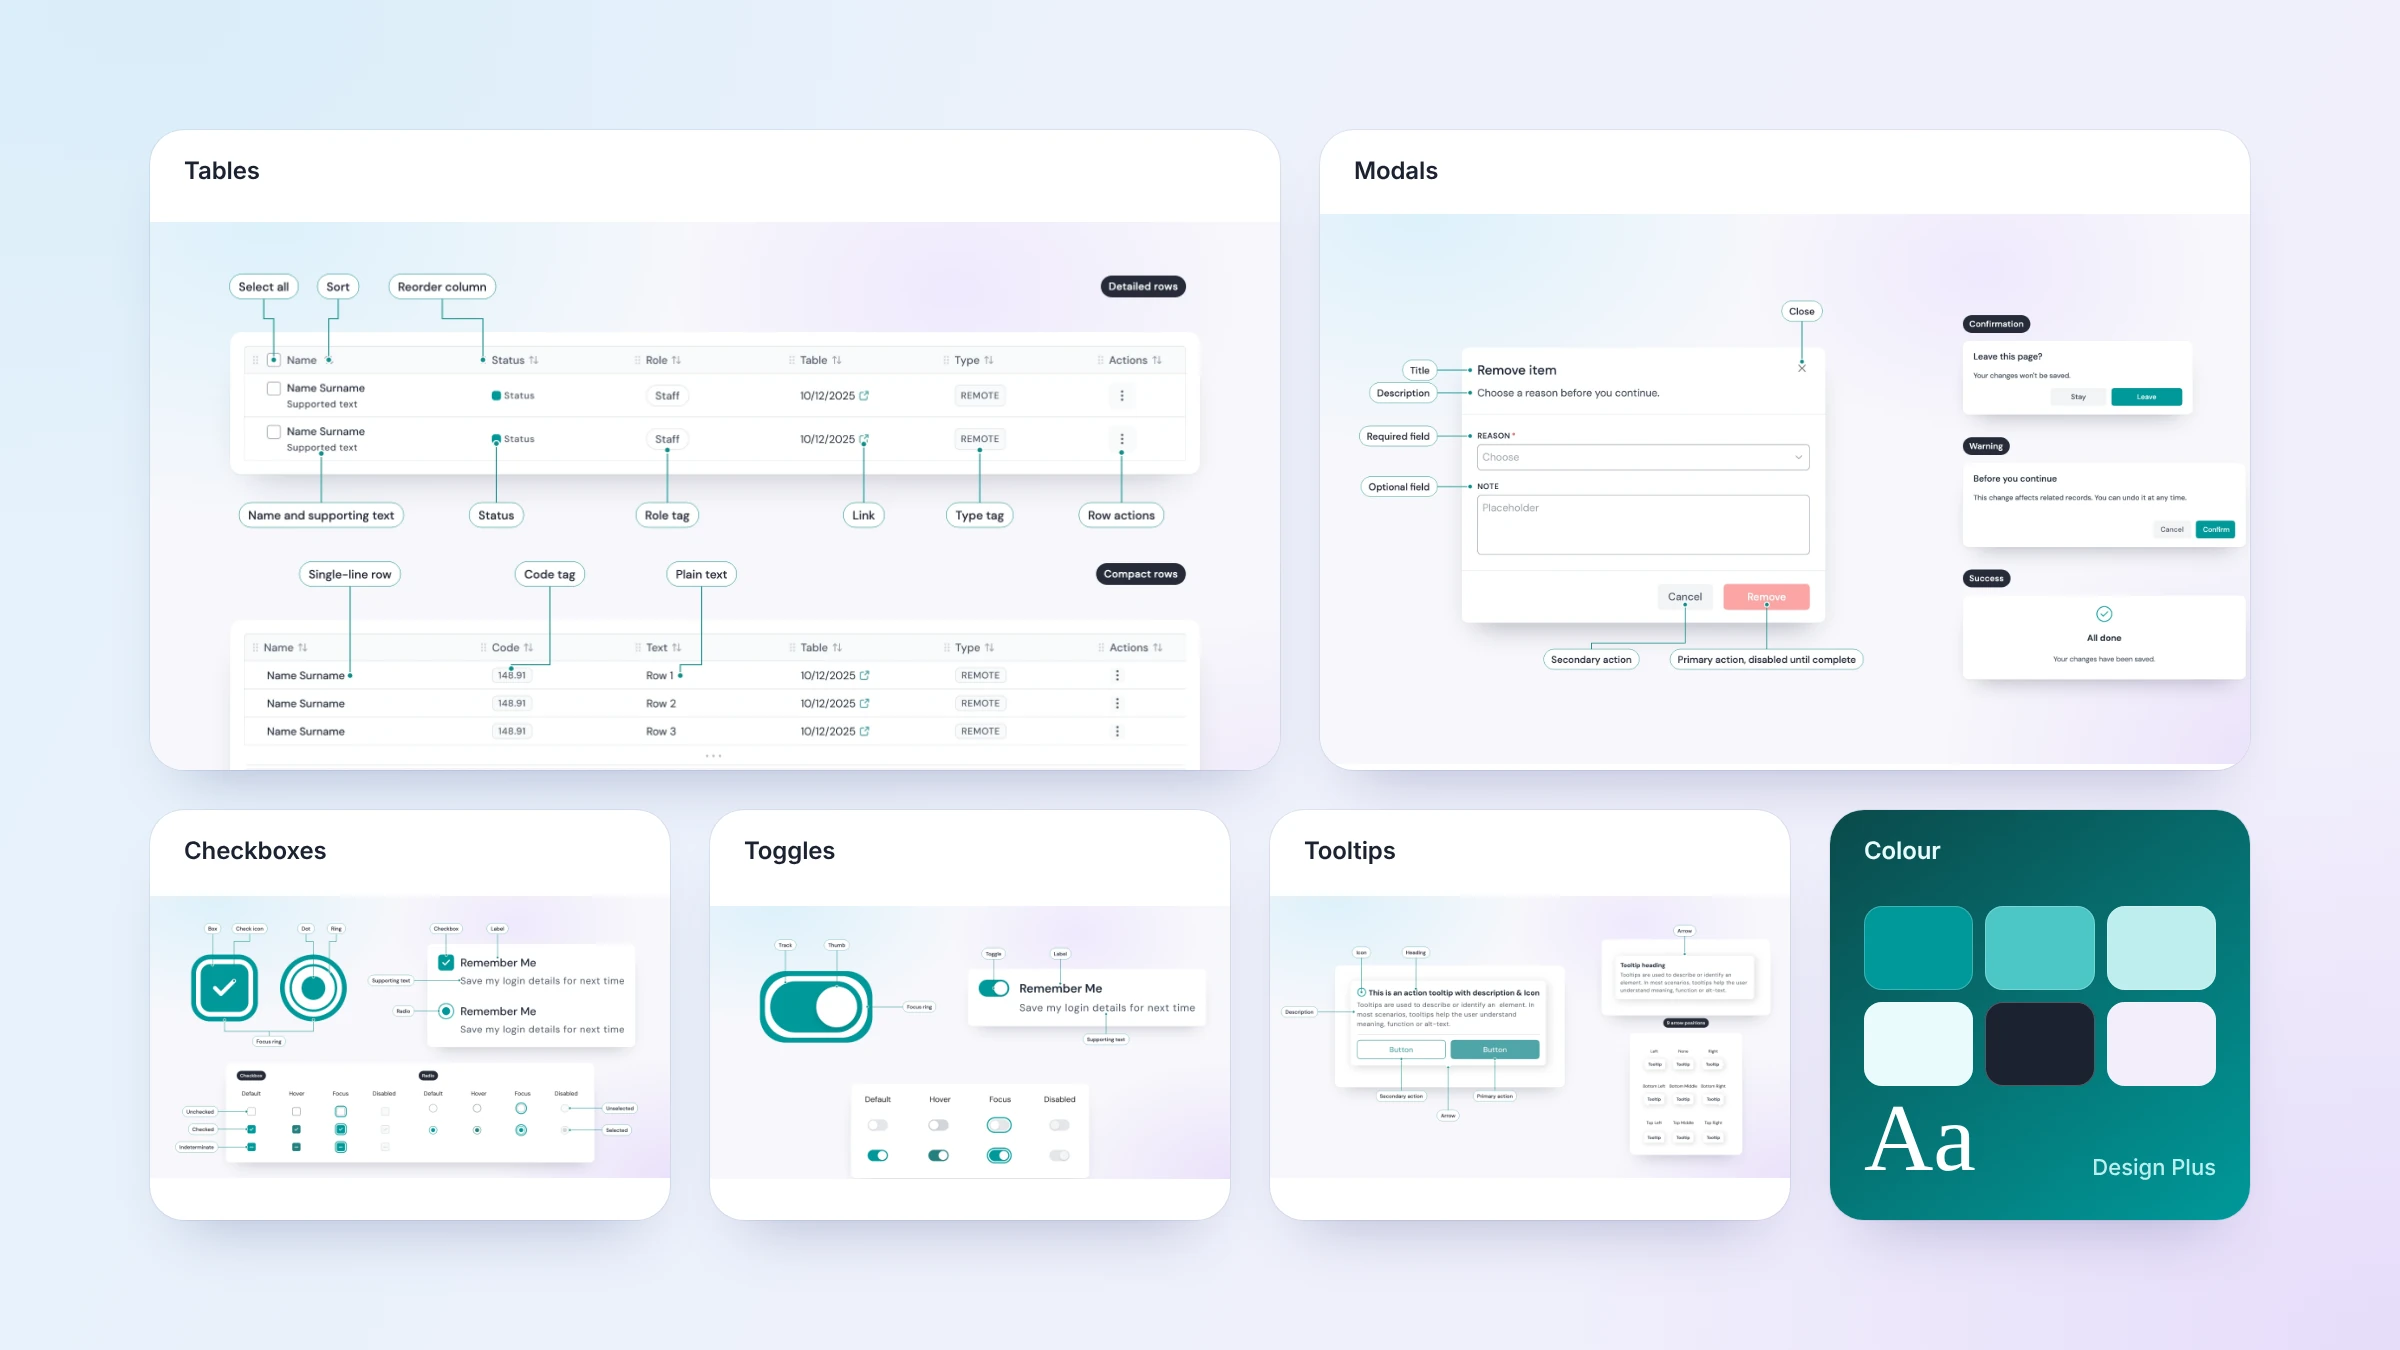
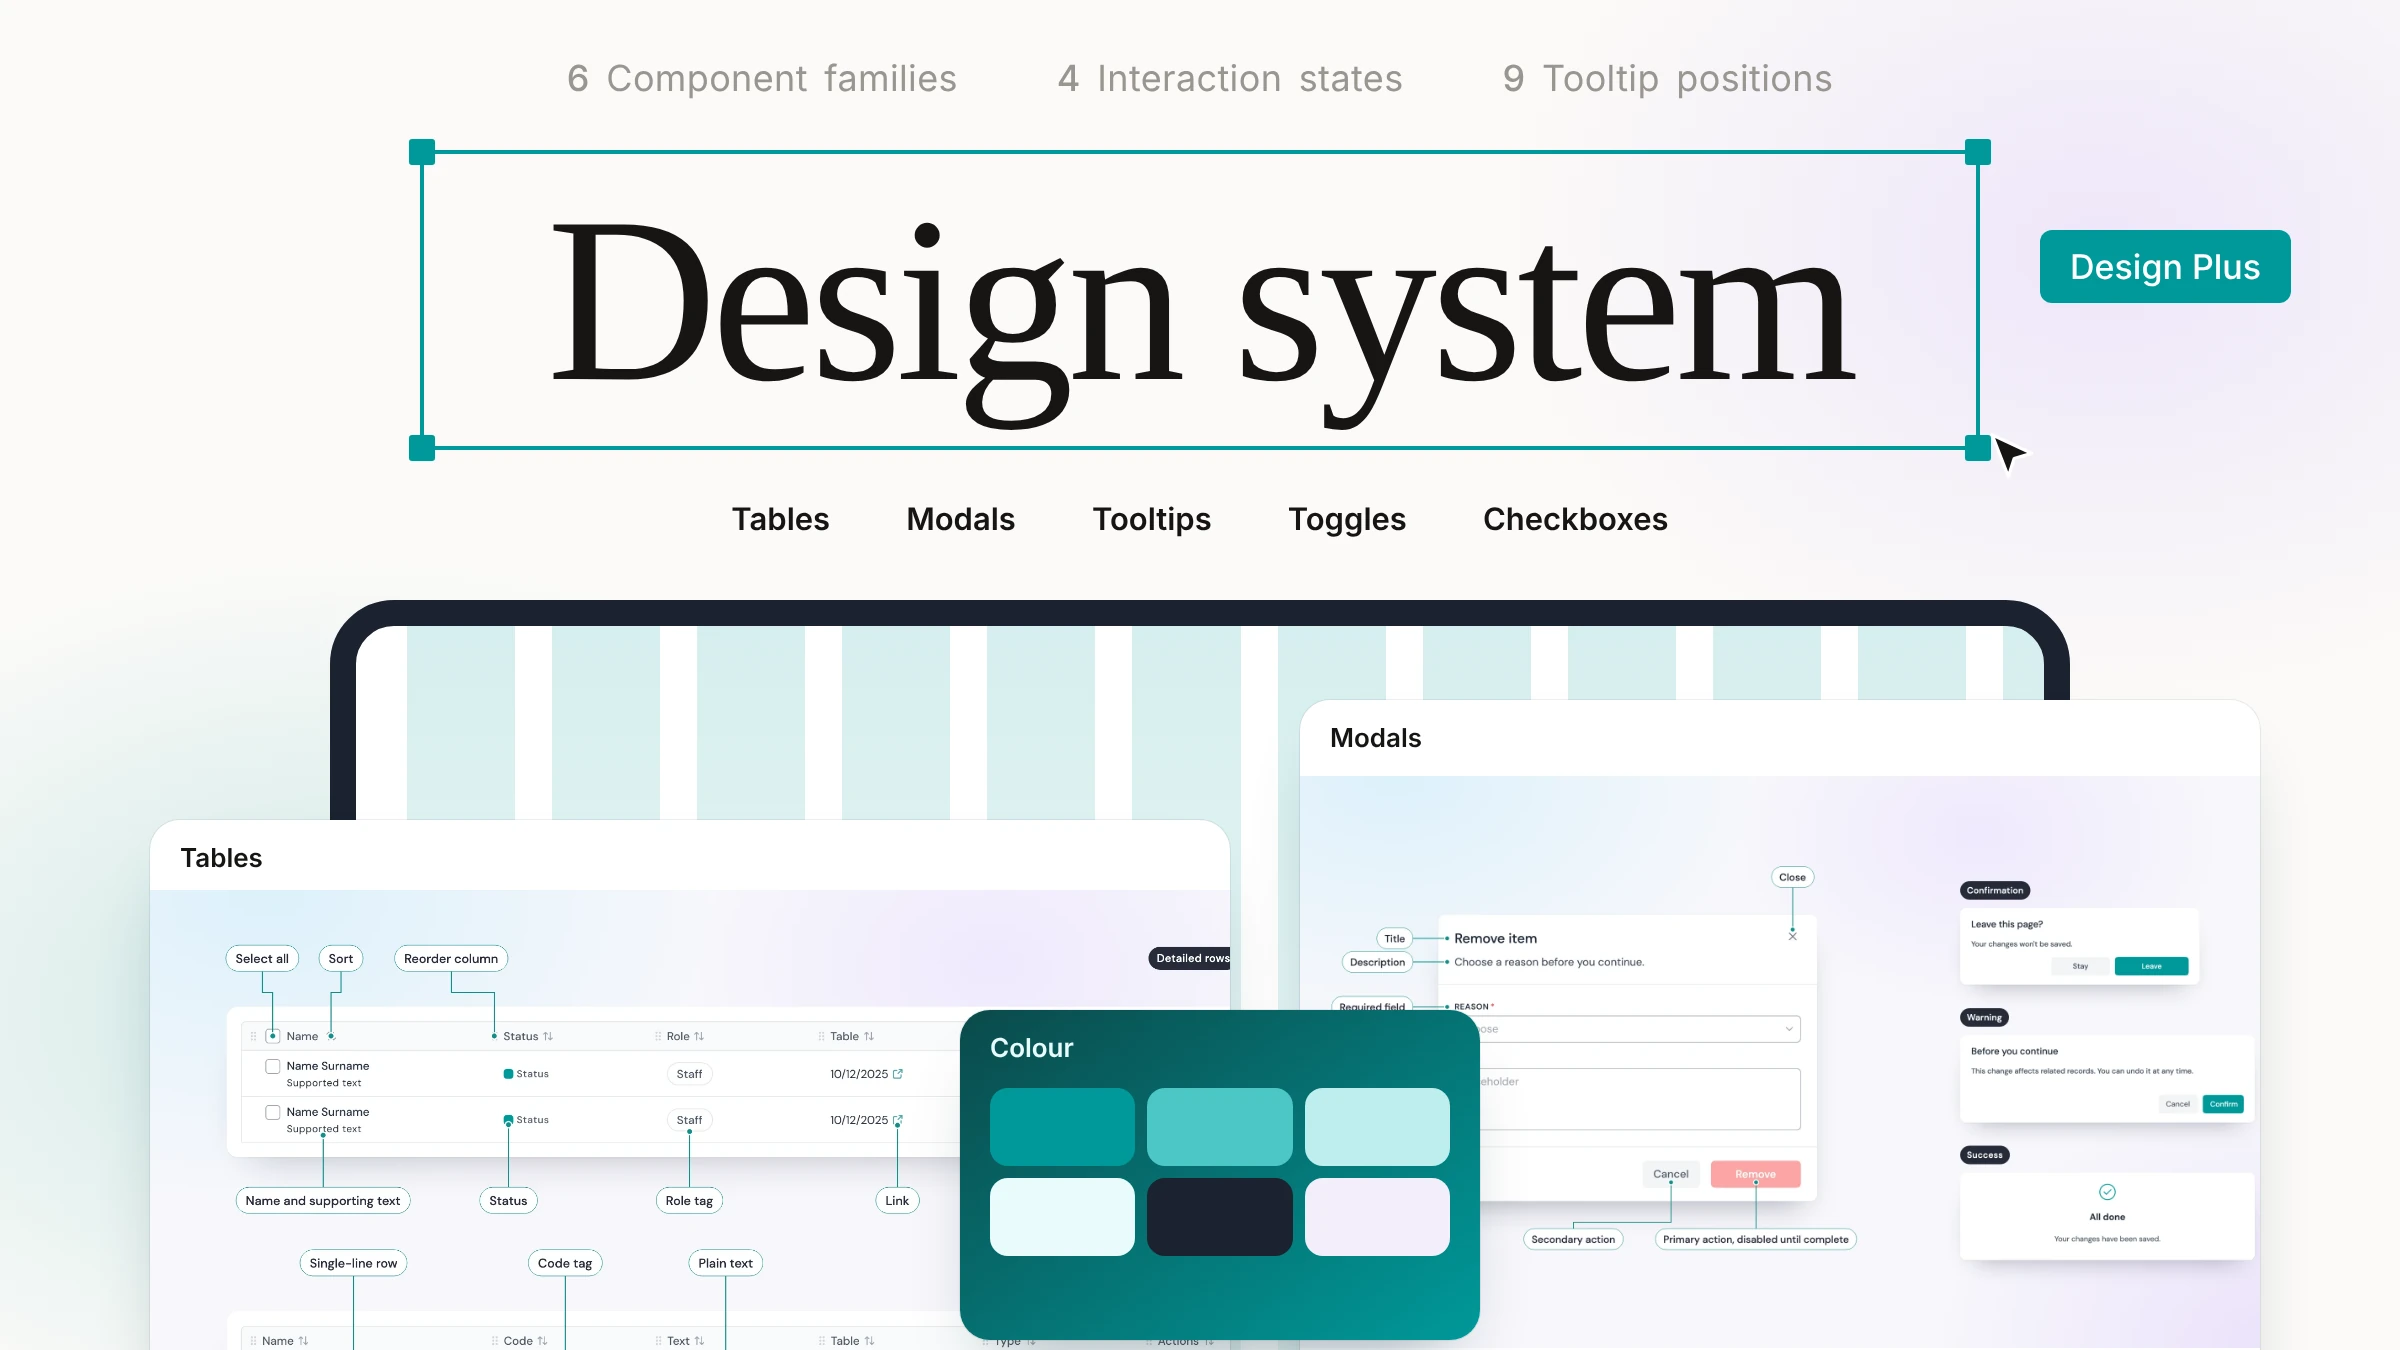
New Design System header: selected title, nav row and device frame with the project's own components
Claude-Session: https://claude.ai/code/session_01XnWq2KvNCpHCJAdmZe715v

diff --git a/src/content/projects.ts b/src/content/projects.ts
@@ -373,7 +373,7 @@ export const projects: Project[] = [
     },
     hero: {
       src: 'images/projects/design-system/hero.webp',
-      alt: 'Design Plus components arranged as cards: tables, modals, checkboxes, toggles, tooltips and a teal colour palette',
+      alt: 'The words Design system in large type inside a selection box labelled Design Plus, above a device frame with the Tables, Modals and colour cards from the design system',
       width: 2400,
       height: 1350,
       aspect: '16 / 9',
